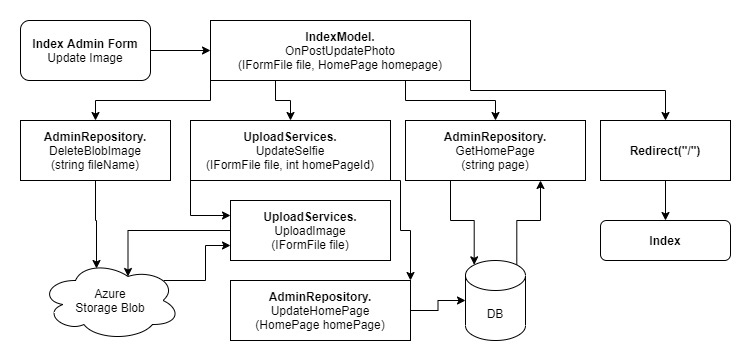
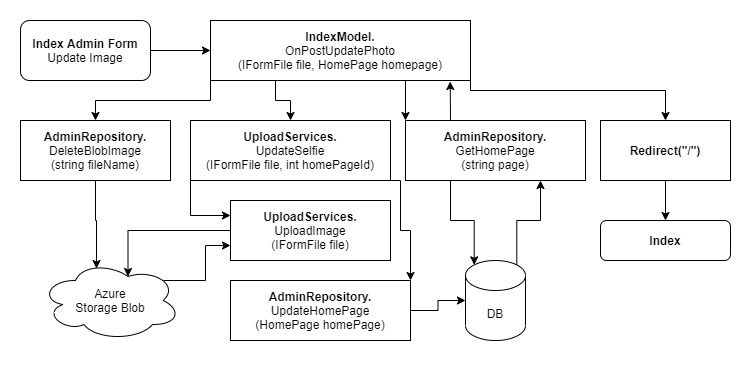
Added the rest of the Index Domain Models

diff --git a/README.md b/README.md
@@ -31,7 +31,7 @@ There is more information about the languages, technologies, tools, and site arc
         </td>
     </tr>
     <tr>
-        <td width=50>
+        <td width=70>
             <img src="https://github.com/scottfalbo/shared-readme-assets/blob/main/assets/html.png?raw=true" height=40>
             <img src="https://github.com/scottfalbo/shared-readme-assets/blob/main/assets/css.png?raw=true" height=40>
         </td>
@@ -40,7 +40,7 @@ There is more information about the languages, technologies, tools, and site arc
         </td>
     </tr>
     <tr>
-        <td width=50>
+        <td width=70>
             <img src="https://github.com/scottfalbo/shared-readme-assets/blob/main/assets/javascript.png?raw=true" height=40>
             <img src="https://github.com/scottfalbo/shared-readme-assets/blob/main/assets/jQuery.png?raw=true" height=40>
         </td>
@@ -49,7 +49,7 @@ There is more information about the languages, technologies, tools, and site arc
         </td>
     </tr>
     <tr>
-        <td width=50>
+        <td width=70>
             <img src="https://github.com/scottfalbo/shared-readme-assets/blob/main/assets/azure.png?raw=true" height=40>
             <img src="https://github.com/scottfalbo/shared-readme-assets/blob/main/assets/azure_sql.png?raw=true" height=40>
             <img src="https://github.com/scottfalbo/shared-readme-assets/blob/main/assets/key_vault.png?raw=true" height=40>
@@ -60,7 +60,7 @@ There is more information about the languages, technologies, tools, and site arc
         </td>
     </tr>
     <tr>
-        <td width=50>
+        <td width=70>
             <img src="https://github.com/scottfalbo/shared-readme-assets/blob/main/assets/bootstrap.png?raw=true" height=40>
             <img src="https://github.com/scottfalbo/shared-readme-assets/blob/main/assets/sendgrid.png?raw=true" height=40>
         </td>
@@ -69,7 +69,7 @@ There is more information about the languages, technologies, tools, and site arc
         </td>
     </tr>
     <tr>
-        <td width=50>
+        <td width=70>
             <img src="https://github.com/scottfalbo/shared-readme-assets/blob/main/assets/git.png?raw=true" height=40>
             <img src="https://github.com/scottfalbo/shared-readme-assets/blob/main/assets/github-light.png?raw=true" height=40>
         </td>
@@ -78,7 +78,7 @@ There is more information about the languages, technologies, tools, and site arc
         </td>
     </tr>
     <tr>
-        <td width=50>
+        <td width=70>
             <img src="https://github.com/scottfalbo/shared-readme-assets/blob/main/assets/visual_studio.png?raw=true" height=40>
             <img src="https://github.com/scottfalbo/shared-readme-assets/blob/main/assets/vscode.png?raw=true" height=40>
         </td>
@@ -87,7 +87,7 @@ There is more information about the languages, technologies, tools, and site arc
         </td>
     </tr>
     <tr>
-        <td width=50>
+        <td width=70>
             <img src="https://github.com/scottfalbo/shared-readme-assets/blob/main/assets/photoshop.png?raw=true" height=40>
         </td>
         <td>
@@ -103,6 +103,16 @@ There is more information about the languages, technologies, tools, and site arc
 ### Entity Relationship Diagram
 
 ![ERD](/assets/erd.png)
+
+## Domain Models
+
+### Index Admin: Update Image
+
+![index update model](/assets/index_photo_update_model.jpg)
+
+### Index Admin: Update Page
+
+![index update model](/assets/index_update_model.jpg)
 
 ---
 
